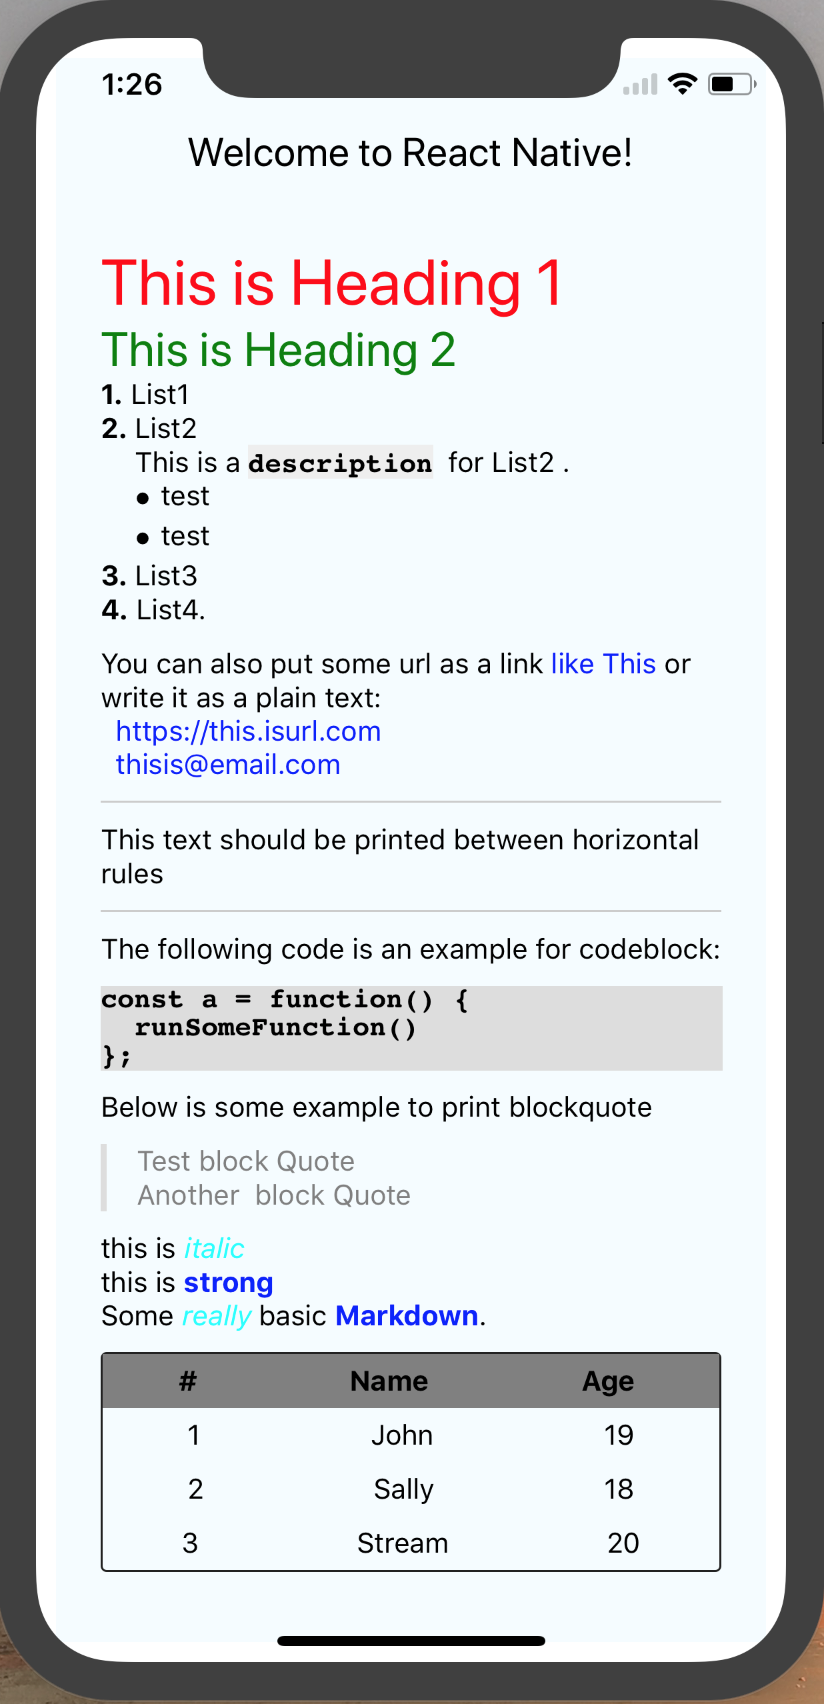
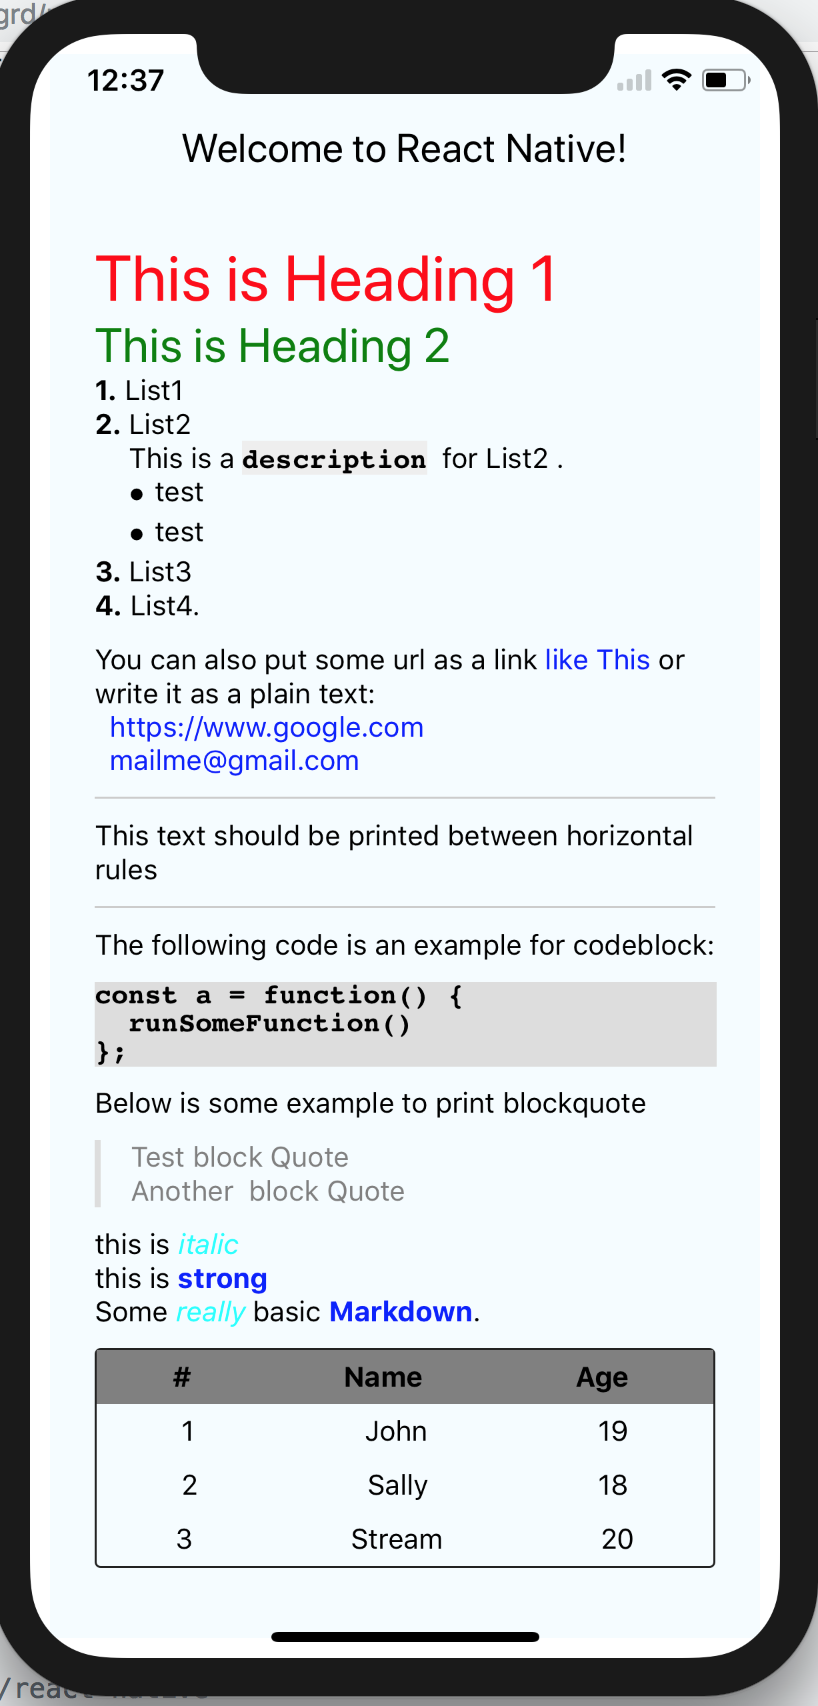
update to version 1.4.2

Changed region(s): [[0.0, 0.0, 1.0, 1.0]]

diff --git a/App.js b/App.js
@@ -9,7 +9,8 @@ import {
   Platform,
   StyleSheet,
   Text,
-  View
+  View,
+  Linking
 } from 'react-native';
 import Markdown from 'react-native-markdown-package';
 
@@ -32,9 +33,9 @@ const text = `
 4. List4.
 
 
-You can also put some url as a link [like This](https://this.isurl.com) or write it as a plain text:
-  https://this.isurl.com
-  <thisis@email.com>
+You can also put some url as a link [like This](https://www.google.com) or write it as a plain text:
+  https://www.google.com
+  <mailme@gmail.com>
 
 ---
 
@@ -72,7 +73,10 @@ export default class App extends Component<{}> {
           <Text style={styles.welcome}>
             Welcome to React Native!
           </Text>
-          <Markdown styles={styles.markdown} >
+          <Markdown 
+            styles={styles.markdown} 
+            onLink={(url) => Linking.openURL(url)}
+          >
             { text } 
           </Markdown>
         
